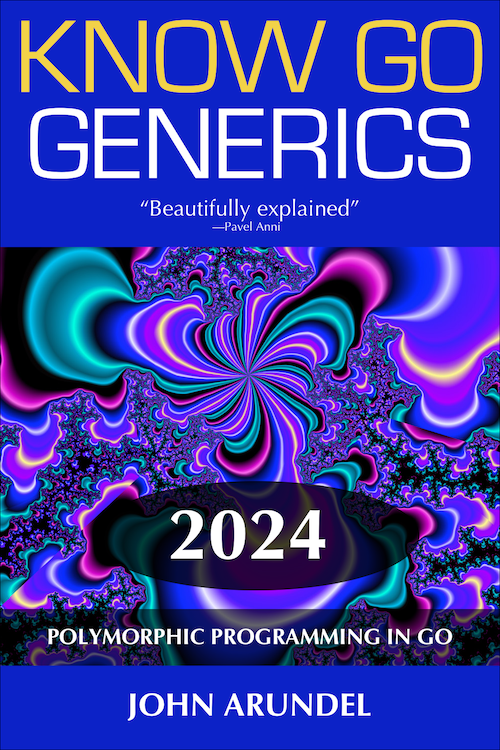
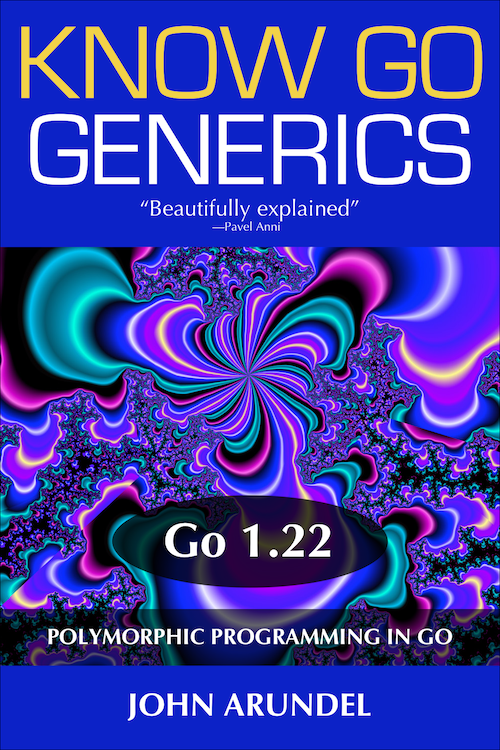
update cover

Changed region(s): [[0.03, 0.0, 0.99, 0.276], [0.21, 0.644, 0.84, 0.7973], [0.03, 0.0, 0.06, 0.0613]]

diff --git a/exercises/funcmap/funcmap_test.go b/exercises/funcmap/funcmap_test.go
@@ -24,7 +24,7 @@ func TestFuncMap_AppliesDoubleTo2AndReturns4(t *testing.T) {
 	}
 }
 
-func TestFuncMap_AppliesUpperToUppercaseInputAndReturnsTrue(t *testing.T) {
+func TestFuncMap_AppliesUpperToUppercaseInput(t *testing.T) {
 	t.Parallel()
 	fm := funcmap.FuncMap[rune, bool]{
 		"upper": unicode.IsUpper,

diff --git a/solutions/funcmap/funcmap_test.go b/solutions/funcmap/funcmap_test.go
@@ -24,7 +24,7 @@ func TestFuncMap_AppliesDoubleTo2AndReturns4(t *testing.T) {
 	}
 }
 
-func TestFuncMap_AppliesUpperToUppercaseInputAndReturnsTrue(t *testing.T) {
+func TestFuncMap_AppliesUpperToUppercaseInput(t *testing.T) {
 	t.Parallel()
 	fm := funcmap.FuncMap[rune, bool]{
 		"upper": unicode.IsUpper,

diff --git a/README.md b/README.md
@@ -1,5 +1,5 @@
-# Know Go: Generics (2024)
+# Know Go: Generics
 
 [![](cover_small.png)](https://bitfieldconsulting.com/books/generics)
 
-This repository contains exercises, solutions, and code samples from the book [Know Go: Generics](https://bitfieldconsulting.com/books/generics) (2024 edition), by John Arundel.
+This repository contains exercises, solutions, and code samples from the book [Know Go: Generics](https://bitfieldconsulting.com/books/generics), by John Arundel.
